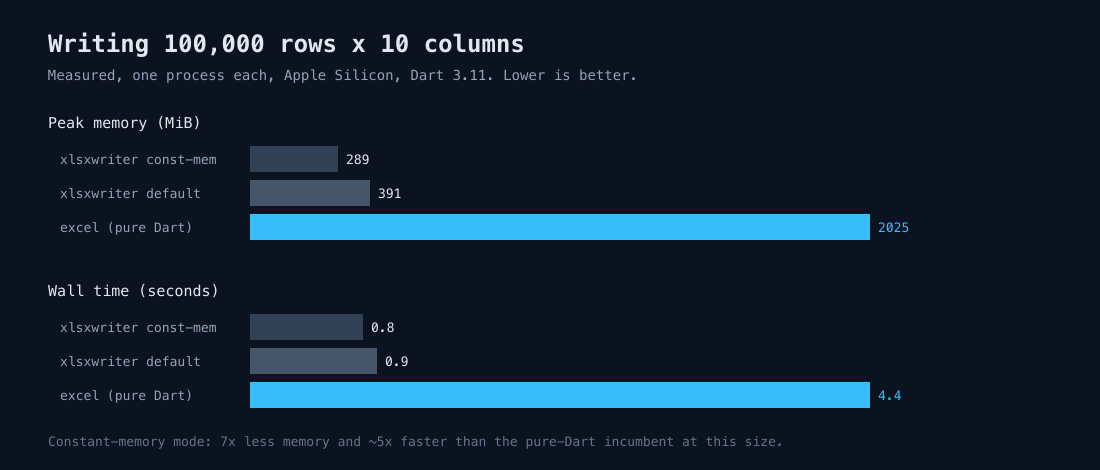
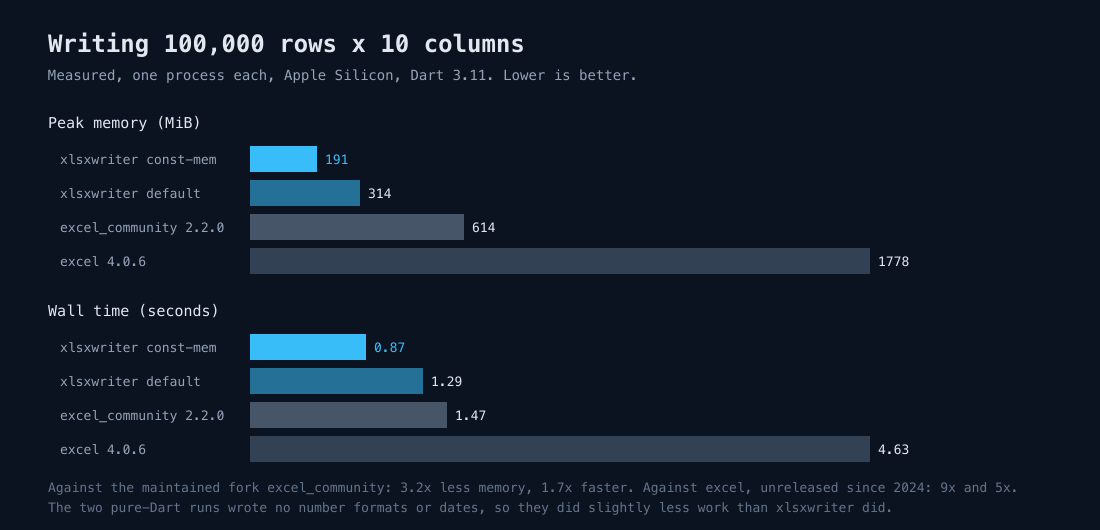
Benchmark against the package people would actually use
The chart compared only against excel and claimed about five times faster.
excel has had no release since August 2024. The maintained fork,
excel_community, is what a reader would otherwise reach for, and against that
the claim does not hold: 1.7x on throughput, not 5x.

Memory is the real argument and it survives intact, 191 MiB against 614. So the
chart now carries all four bars, the README says to compare against the fork
rather than the abandoned package, and it notes the one way the measurement
flatters the competitors: their runs wrote no number formats or dates, so they
did slightly less work.

Re-measured all four in one sitting on one machine rather than quoting numbers
from different days.

Found by having an agent solve a real export task without being told which
package to use. It picked this one, then measured the fork itself and reported
the gap. A benchmark that only beats the weakest option is the kind of thing
that reads as marketing.

diff --git a/README.md b/README.md
@@ -7,7 +7,8 @@ binding to [libxlsxwriter](https://github.com/jmcnamara/libxlsxwriter) by John
 McNamara, a mature C library, compiled from vendored source at build time.
 
 This package writes spreadsheets. It does not read them. If you need to read or
-edit existing files, use [`excel`](https://pub.dev/packages/excel) or
+edit existing files, use [`excel_community`](https://pub.dev/packages/excel_community)
+(the maintained fork of `excel`) or
 [`spreadsheet_decoder`](https://pub.dev/packages/spreadsheet_decoder). The niche
 here is the export and report-generation path: turning rows of data into an
 `.xlsx` quickly and with low memory, including a constant-memory mode for sheets
@@ -179,17 +180,26 @@ engine measured in its own process for an isolated peak-memory reading.
 Single machine (Apple Silicon, Dart 3.11), so treat these as indicative, not a
 spec:
 
-![Benchmark: xlsxwriter vs excel at 100k rows](doc/benchmark.png)
+![Benchmark: xlsxwriter against excel_community and excel at 100k rows](doc/benchmark.png)
 
 | engine                          |   time | peak memory |
 | ------------------------------- | -----: | ----------: |
-| `xlsxwriter` (default)          |  0.9 s |      391 MiB |
-| `xlsxwriter` (constant memory)  |  0.8 s |      289 MiB |
-| `excel` (pure Dart)             |  4.4 s |     2025 MiB |
+| `xlsxwriter` (constant memory)  | 0.87 s |      191 MiB |
+| `xlsxwriter` (default)          | 1.29 s |      314 MiB |
+| `excel_community` 2.2.0         | 1.47 s |      614 MiB |
+| `excel` 4.0.6                   | 4.63 s |     1778 MiB |
 
-At this size `xlsxwriter` writes the file about five times faster than `excel`
-and uses a fraction of the memory. The gap in memory widens as rows grow: the
-constant-memory mode stays roughly flat while an in-memory writer keeps climbing.
+Compare against `excel_community`, not `excel`. `excel` has had no release since
+August 2024, so beating it by 5x is not the interesting number; the maintained
+fork is what you would otherwise use, and against that the honest figures are
+**3.2x less memory and 1.7x faster**. Memory is the real argument here and it
+widens as rows grow, because constant-memory mode stays roughly flat while an
+in-memory writer keeps climbing. On throughput alone the fork is close enough
+that it should not decide anything.
+
+One caveat in the competitors' favour: the two pure-Dart runs wrote plain values
+with no number formats or dates, so they did slightly less work than the
+`xlsxwriter` run they are compared against.
 Reproduce with `dart run bench/bench.dart` (this package) and see `bench/bench.dart`
 for the workload. Numbers vary by machine and Dart version; do not treat them as
 guaranteed.

diff --git a/CHANGELOG.md b/CHANGELOG.md
@@ -1,3 +1,14 @@
+## 0.4.4
+
+- Benchmark against `excel_community`, not just `excel`. The chart and the table
+  compared only against `excel`, which has had no release since August 2024, and
+  claimed "about five times faster". Against the maintained fork the honest
+  figures are 3.2x less memory and 1.7x faster: memory is the real argument and
+  throughput is close enough that it should not decide anything. All four
+  numbers re-measured in one sitting on one machine.
+- Say so in the README, and point readers who need to *read* spreadsheets at
+  `excel_community` rather than the unmaintained `excel`.
+
 ## 0.4.3
 
 - Widen the native-toolchain constraints so the package can be installed in a